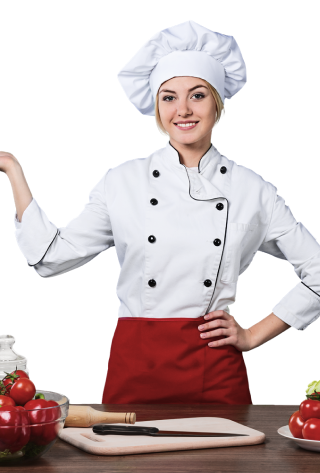
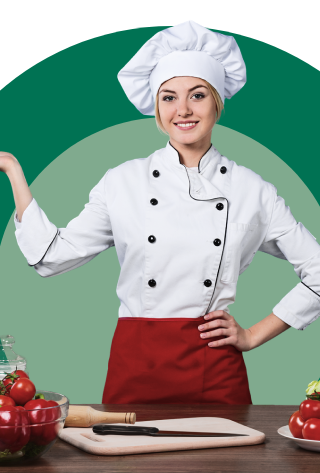
r

diff --git a/styles/header.css b/styles/header.css
@@ -6,6 +6,7 @@
    padding-top: 30px;
    background-repeat: no-repeat;
    background-size: cover;
+
 }
 
 .header__top__wrapper {
@@ -164,6 +165,7 @@
    position: absolute;
    background: var(--black--green);
    padding-top: 15px;
+   padding-bottom: 10px;
 }
 .menu i {
    position: absolute;

diff --git a/index.html b/index.html
@@ -77,7 +77,8 @@
          </div>
       </div>
       <div class="header__img">
-         <img src="./assets/images/header/header__bg.png" alt="">
+    
+         <img src="./assets/images/header/Group 1 (2).png" alt="">
       </div>
    </header>
    <section class="aboutUs">
